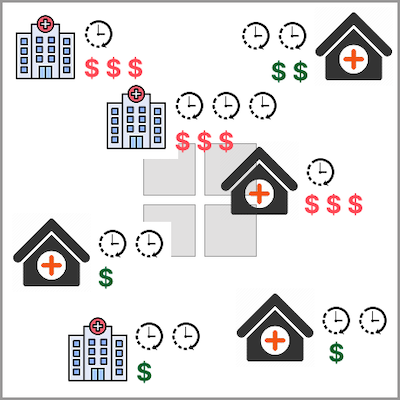
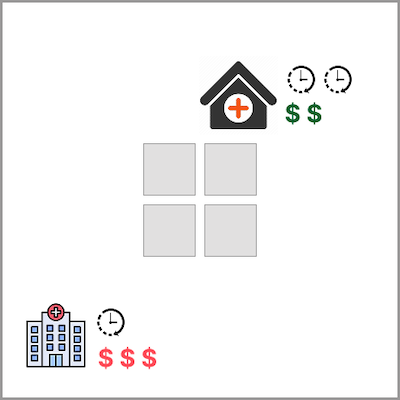
Reviwed the dataset interpretability file. updates in the images

diff --git a/models/emergency-maternal-care/beira/dataset-interpretability.md b/models/emergency-maternal-care/beira/dataset-interpretability.md
@@ -28,9 +28,15 @@ The dataset relates the offer of emergency obstetric care (i.e., health care fac
 
 <img src="image-examples/emergency-maternal-care-access-deprivation-high.png" alt="example-high">
 
+## Access deprivation levels based on the accessibility score provided by the E2SFCA method
+
+We use the enhanced two-step floating catchment area (E2SFCA) method to estimate accessibility to emergency maternal care. The E2SFCA method combines information about the supply of healthcare services (i.e., health care facilities offering emergency obstetric care) and the demand for these services. The result is a numeric value called the accessibility score ranging between 0 and 1. To define the deprivation levels (i.e., Low, Medium, High), we apply city-specific thresholds to classify the accessibility scores into three categories. These thresholds are the result city-specific analysis detailed in the next section.
+
 ## City-Specific thresholds for Emergency Maternal Care access deprivation
 
-City-specific thresholds are applied to classify emergency maternal care accessibility deprivation based on the distribution of standardized accessibility scores derived from the enhanced two-step floating catchment area (E2SFCA) method. Threshold variability across cities reflects differences in functional urban area scale, building density, population density ( women of childbearing age), the spatial distribution of the 3 closest healthcare facilities and local mobility conditions. Thresholds also adapt to based on the quality of the available datasets. Accessibility scores are interpreted such that higher values indicate better access and lower levels of deprivation. The table below summarises the thresholds applied in each city for classification.
+City-specific thresholds were applied to classify emergency maternal care accessibility deprivation based on the distribution of standardized accessibility scores derived from the enhanced two-step floating catchment area (E2SFCA) method. Threshold variability across cities reflects differences in functional urban area scale, building density, population density (e.g., women of childbearing age), the spatial distribution of the 3 closest healthcare facilities and local mobility conditions. Thresholds also adapt to based on the quality of the available datasets and the distribution of the accessibility scores. Accessibility scores are interpreted such that higher values indicate better access and lower levels of deprivation. The table below summarises the thresholds applied in each city for classification.
+
+If you require further information about the data sources and methodology used to derive these thresholds, please email us via the [IDEAMAPS network](mailto:admin@ideamapsnetwork.org) or [Dr Diego Pajarito Grajales](mailto:diego.pajaritograjales@glasgow.ac.uk) at the [Urban Big Data Centre](https://ubdc.ac.uk), University of Glasgow.
 
 - ### Kano, Nigeria
 
@@ -131,19 +137,33 @@ To learn more about how you can help improve the accuracy of these classificatio
 
 ## Additional Insights into Modelling Emergency Maternal Care Access Deprivation
 
-The analysis is set as two parallel workstreams (i.e., offer and demand) that merge using a synthetic index to represent access deprivation. Stream one considers health care facilities offering emergency obstetric care (EmOC), their relative costs and a local validation from the local partners in Kano. Stream two considers population counts of the female population of childbearing age and estimates its distribution based on built-up areas within the reference grid. Finally, the accessibility indicator is the result of applying the enhanced two-step floating catchment area method based on a pool of nearby health care facilities.
+The analysis is set as two parallel workstreams (i.e., offer and demand) that merge using a synthetic index to represent access deprivation. Stream one considers health care facilities offering emergency obstetric care (EmOC), their relative costs and a validation from the local partners where possible. Stream two considers population counts of the female population of childbearing age and estimates its distribution based on built-up areas within the reference grid. Finally, the accessibility indicator is the result of applying the enhanced two-step floating catchment area method based on a pool of nearby health care facilities.
 
 <img src="image-examples/insights-emergency-maternal-1.jpg" alt="Emergency-maternal-care-model">
 
-For the first stream, we use information about EmOC offer in terms of capacity and preferences during the maternal emergency time. The team analysed two datasets produced by GRID3 and Macharia et al., 2023 to identify where emergency obstetric care is provided 24 hours a day, 7 days a week. This is considered an initial indicator of capacity for the accessibility estimate. To improve it, the team considers complementary factors such as property (e.g., public and private) and service level (e.g., basic and comprehensive) to assign weights. The capacity/preference weights are set as public facilities preferred due to their relatively lower costs, and comprehensive services preferred over basic ones at the time of an emergency. 
+### Stream one: Health care facilities offering EmOC
+
+For the first stream, we use information about EmOC offer in terms of capacity and preferences during the maternal emergency time. The team analysed multiple datasets to indentify the one describing where emergency obstetric care is provided 24 hours a day, 7 days a week. This is considered an initial indicator of capacity for the accessibility estimate. To improve it, the team considered complementary factors such as property (e.g., public and private) and service level (e.g., basic and comprehensive) to assign relative weights. The capacity/preference weights are set as public facilities preferred due to their relatively lower costs, and comprehensive services preferred over basic ones at the time of an emergency. 
+
+The following table summarises the data sources considered to identify health care facilities offering EmOC in different countries.
+
+| Country | Data Source | Local Validation |
+|-------------------|---------------------------|---------------------------|
+| Nigeria          | GRID3 and Macharia et al., 2023 to - Add link  | Local validation from IDEAMAPS local expert team |
+| Country          | Source with link  | Either expert or internal classification |
+| Colombia          | Ministerio de Salud  | Initial classification carried out within IDEAMAPS team |
+
+  
 
 <img src="image-examples/insights-emergency-maternal-2.jpg" alt="Health-care-pool">
 
-For the second stream, we used population counts from WorldPop: women of childbearing age in 2015 and the reference grid from the general population count. and the open buildings V3 provided by Google. The team analysed various socio-economic conditions that communities highlighted during the participatory-action research sessions carried out with them. Unfortunately, none of them were adequately represented in the available datasets; only elements of income and employment were integrated in the first stream as relative weights. To fit the values of women of childbearing age, aggregated by 1km by 1km grid cells, the team used the number of buildings in the corresponding grid cells as the weighting factor to spread the values. Through that process, the team generated an estimate of the number of women of childbearing age.
+### Stream two: Population counts
 
 For the second stream, we used population counts from WorldPop: women of childbearing age in 2015 and the reference grid from the general population count. and the open buildings V3 provided by Google. The team analysed various socio-economic conditions that communities highlighted during the participatory-action research sessions carried out with them. Unfortunately, none of them were adequately represented in the available datasets; only elements of income and employment were integrated in the first stream as relative weights. To fit the values of women of childbearing age, aggregated by 1km by 1km grid cells, the team used the number of buildings in the corresponding grid cells as the weighting factor to spread the values. Through that process, the team generated an estimate of the number of women of childbearing age.
 
-The two streams were combined in two steps. First, we estimated how long it takes to travel from each spot on a grid (100m by 100m) to every health care facility. Based on these travel times, we linked each grid cell to the three nearest health care facilities that offer different levels of services (like public-comprehensive, public-basic, private-comprehensive, and private-public). Next, we used these links to create a synthetic index using the enhanced two-step floating catchment area (E2SFCA) method, which connects the availability of services (like emergency obstetric care) with the population that needs them.
+### Access deprivation estimation
+
+The two streams were combined in two steps. First, we estimated how long it takes to travel from each spot on a grid (100m by 100m) to every health care facility. For the travel times the team used the [Open Route Service API](https://openrouteservice.org/). Based on these travel times, we linked each grid cell to the three nearest health care facilities that offer different levels of services (like public-comprehensive, public-basic, private-comprehensive, and private-public). Next, we used these links to create a synthetic index using the enhanced two-step floating catchment area (E2SFCA) method, which connects the availability of services (like emergency obstetric care) with the population that needs them.
 
 Once we calculated the synthetic index, we normalized the values to range from 0 to 1, where 0 means high access deprivation (hard to reach health care) and 1 means low access deprivation (easy access). To prepare the data for visualisation, we removed grid cells with no population and then sorted the remaining values into three categories with roughly the same number of grid cells in each.
 
@@ -156,6 +176,8 @@ As with any model, there are limitations that emerge from the multiple decisions
 - The health care facilities we have chosen might not cover all available options, meaning some places that offer emergency obstetric care (EmOC) might be overlooked, while others that do not provide it currently might be included.
 
 - To estimate travel times, we used a standard routing service where the vehicle speeds were not tested on the ground, which can lead to inaccuracies.
+
+- In some areas, the building footprints dataset might not fully capture all structures, especially informal ones, which can affect how we estimate where women of childbearing age live.
 
 - There are some roads that are not captured in the dataset used to calculate routes and travel times.
 
